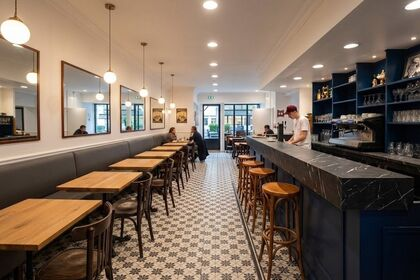
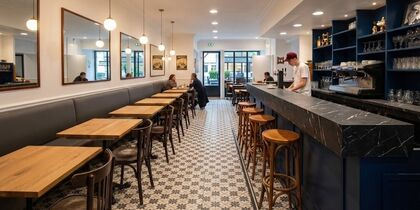
Redresse la hiérarchie des plats, passe la photo en 2:1
Trois défauts relevés en mesurant l'échelle typographique.

La description d'un plat était plus grosse que le nom du plat : 20 px contre
18,4, seule la graisse les distinguant. La liste n'avait donc pas d'ordre de
lecture — nom, description, prix et allergènes parlaient au même volume. Le
nom et le prix passent à 1,15 rem et forment une paire, la description tombe
à 0,95 rem, les allergènes s'effacent.

La photo passe en 2:1. J'avais écarté ce format après un seul essai, à un
cadrage trop bas qui coupait le barman ; remonté, il garde les suspensions,
la banquette entière et le comptoir, tout en rognant le sol qui n'apportait
rien. La salle est tout en longueur, un cadre allongé l'épouse. Sur mobile le
contenu commence désormais à 649 px au lieu de 1050, et la page perd 460 px.
Un 21:9 a été essayé aussi : il réduisait la scène à une tranche.

Le soulignement du menu passe de 2 px collés au texte à 1 px posé plus bas :
il ressemblait à un souligné de navigateur plutôt qu'à un repère.

Une espace manquait entre l'étiquette « Aujourd'hui » et l'horaire : la mise
en page la compensait, mais un lecteur d'écran annonçait « Aujourd’hui11h00 ».

Les champs de saisie sont plafonnés à 26 rem. Un champ « nom » large de
700 px fait douter de ce qu'on attend.

diff --git a/public/style.css b/public/style.css
@@ -243,8 +243,10 @@ h3 {
 }
 
 .menu__lien {
-  padding: 0.15rem 0;
-  border-bottom: 2px solid transparent;
+  /* Le soulignement est posé bas et fin : un trait de 2 px collé au texte
+     ressemblait à un souligné de navigateur, pas à un repère typographique. */
+  padding: 0.15rem 0 0.4rem;
+  border-bottom: 1px solid transparent;
   color: var(--encre);
   /* Une navigation principale ne peut pas être plus petite que le texte
      courant : elle l'était de moitié. */
@@ -258,13 +260,14 @@ h3 {
 .menu__lien:hover,
 .menu__lien:focus {
   color: var(--rouge);
-  border-bottom-color: var(--filet);
+  border-bottom-color: var(--filet-champ);
 }
 
 /* La page où l'on se trouve, marquée sans être cliquable pour rien. */
 .menu__lien--actuel {
   color: var(--rouge);
   border-bottom-color: var(--rouge);
+  font-weight: 600;
 }
 
 /* Sous 416 px — la majorité des téléphones — on resserre l'interlettrage et
@@ -537,28 +540,35 @@ section {
   transform: translateY(-0.3em);
 }
 
+/* Le nom domine, la description suit, les allergènes s'effacent.
+   Auparavant la description était la plus grosse des trois : elle pesait
+   autant que le plat qu'elle décrit, et seule la graisse les distinguait. */
 .plat__nom {
-  font-size: 1.0625rem;
+  font-size: 1.15rem;
   font-weight: 600;
 }
 
 .plat__prix {
   order: 2;
   margin: 0;
+  /* Même corps que le nom : ils forment une paire, ils se répondent. */
+  font-size: 1.15rem;
   white-space: nowrap; /* « 12,90 € » ne doit jamais être coupé */
   color: var(--rouge);
 }
 
 .plat__description {
-  margin: 0.15rem 0 0;
+  margin: 0.2rem 0 0;
+  font-size: 0.95rem;
   color: var(--encre-douce);
 }
 
 .plat__allergenes {
-  margin: 0.25rem 0 0;
-  font-size: 0.82rem;
+  margin: 0.3rem 0 0;
+  font-size: 0.78rem;
   font-style: italic;
   color: var(--encre-douce);
+  opacity: 0.85;
 }
 
 .vedettes__lien {
@@ -760,6 +770,14 @@ section {
   margin: 0 0 1.2rem;
 }
 
+/* Un champ « nom » large de 700 px est absurde : personne n'écrit un nom sur
+   soixante-dix caractères, et un champ démesuré fait douter de ce qu'on
+   attend. Le message, lui, garde toute la colonne. */
+.formulaire__champ input,
+.formulaire select {
+  max-width: 26rem;
+}
+
 .formulaire label {
   display: block;
   margin-bottom: 0.4rem;
@@ -890,9 +908,11 @@ section {
     padding-bottom: 0;
   }
 
-  /* Grand écran : le menu peut respirer sans risquer de se replier. */
+  /* Grand écran : le menu respire, mais pas au point de se disperser.
+     Trois mots trop écartés au milieu d'une large bande ne se lisent plus
+     comme un groupe. */
   .menu {
-    gap: 0.4rem 2.4rem;
+    gap: 0.4rem 2rem;
     padding: 1.1rem var(--marge);
   }
 
@@ -900,8 +920,9 @@ section {
     letter-spacing: 0.14em;
   }
 
-  .plat__nom {
-    font-size: 1.15rem;
+  .plat__nom,
+  .plat__prix {
+    font-size: 1.3rem;
   }
 
   .categorie {

diff --git a/src/lib/rendu.php b/src/lib/rendu.php
@@ -119,12 +119,14 @@ function info(array $infos, string $cle, string $defaut = ''): string
 /**
  * La photo d'ambiance, dans ses trois largeurs préparées par outils/images.py.
  *
- * Recadrée en 3:2 quelle que soit la source : une image presque carrée en
- * pleine largeur ferait un bloc qui repousse tout le contenu sous la ligne
- * de flottaison.
+ * Recadrée en 2:1 quelle que soit la source. La salle est tout en longueur,
+ * un cadre allongé l'épouse — et une image presque carrée en pleine largeur
+ * ferait un bloc qui repousse tout le contenu sous la ligne de flottaison.
+ *
+ * Doit rester d'accord avec SALLE_RATIO dans outils/images.py.
  */
 const SALLE_LARGEURS = [420, 720, 1040];
-const SALLE_RATIO = 1.5;
+const SALLE_RATIO = 2.0;
 
 // ---------------------------------------------------------------------------
 // Les deux pages
@@ -547,7 +549,9 @@ function rendre_aujourdhui(array $infos): string
         // il n'apparaît que dans le pied de page, où toute la semaine est là.
         $lignes[] = sprintf(
             '      <span class="aujourdhui__jour" data-jour="%s">'
-            . '<span class="aujourdhui__etiquette">Aujourd’hui</span>'
+            // L'espace entre les deux balises n'est pas décorative : sans
+            // elle, un lecteur d'écran annonce « Aujourd’hui11h00 ».
+            . '<span class="aujourdhui__etiquette">Aujourd’hui</span> '
             . '<b class="aujourdhui__horaire%s">%s</b></span>',
             e($cle),
             $ferme ? ' aujourdhui__horaire--ferme' : '',

diff --git a/outils/images.py b/outils/images.py
@@ -47,14 +47,16 @@ LOGO_PLAGE = "30%,50%"
 # Largeurs et proportion de la bannière. Doivent rester d'accord avec
 # SALLE_LARGEURS et SALLE_RATIO dans src/lib/rendu.php.
 SALLE_LARGEURS = (420, 720, 1040)
-SALLE_RATIO = 1.5  # 3:2
 
-# Quelle part du surplus de hauteur on retire par le haut. À 0,5 le cadrage
-# serait centré ; à 0,27 il remonte, ce qui garde les suspensions et la
-# hauteur sous plafond — c'est ce qui donne son caractère à la salle — et
-# rogne le sol, qui n'apporte rien passé la moitié du cadre.
+# 2:1. La salle est tout en longueur : un cadre allongé l'épouse, alors qu'un
+# 3:2 empilait beaucoup de sol et repoussait le contenu vers le bas. Un 21:9,
+# essayé aussi, coupait les suspensions et réduisait la scène à une tranche.
+SALLE_RATIO = 2.0
+
+# Quelle part du surplus de hauteur on retire par le haut. On garde les
+# globes et la banquette, on rogne le sol, qui n'apporte rien.
 # Exprimé en proportion et non en pixels, pour tenir avec une autre photo.
-SALLE_CADRAGE = 0.27
+SALLE_CADRAGE = 0.45
 
 
 def executer(arguments: list[str]) -> None:
